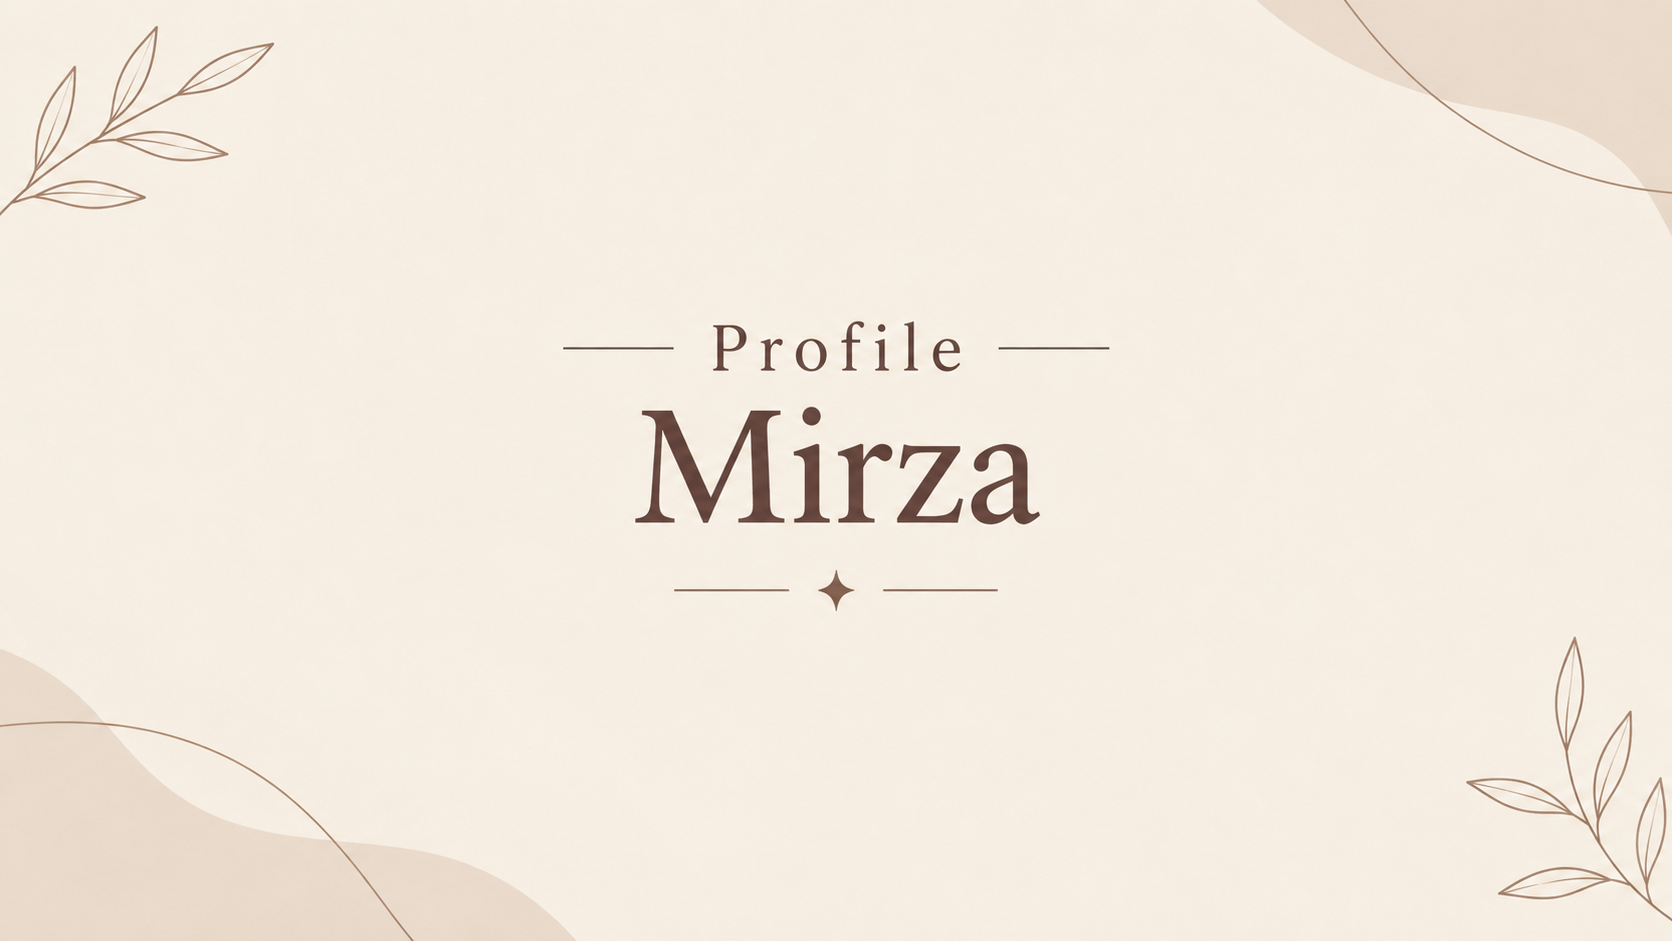
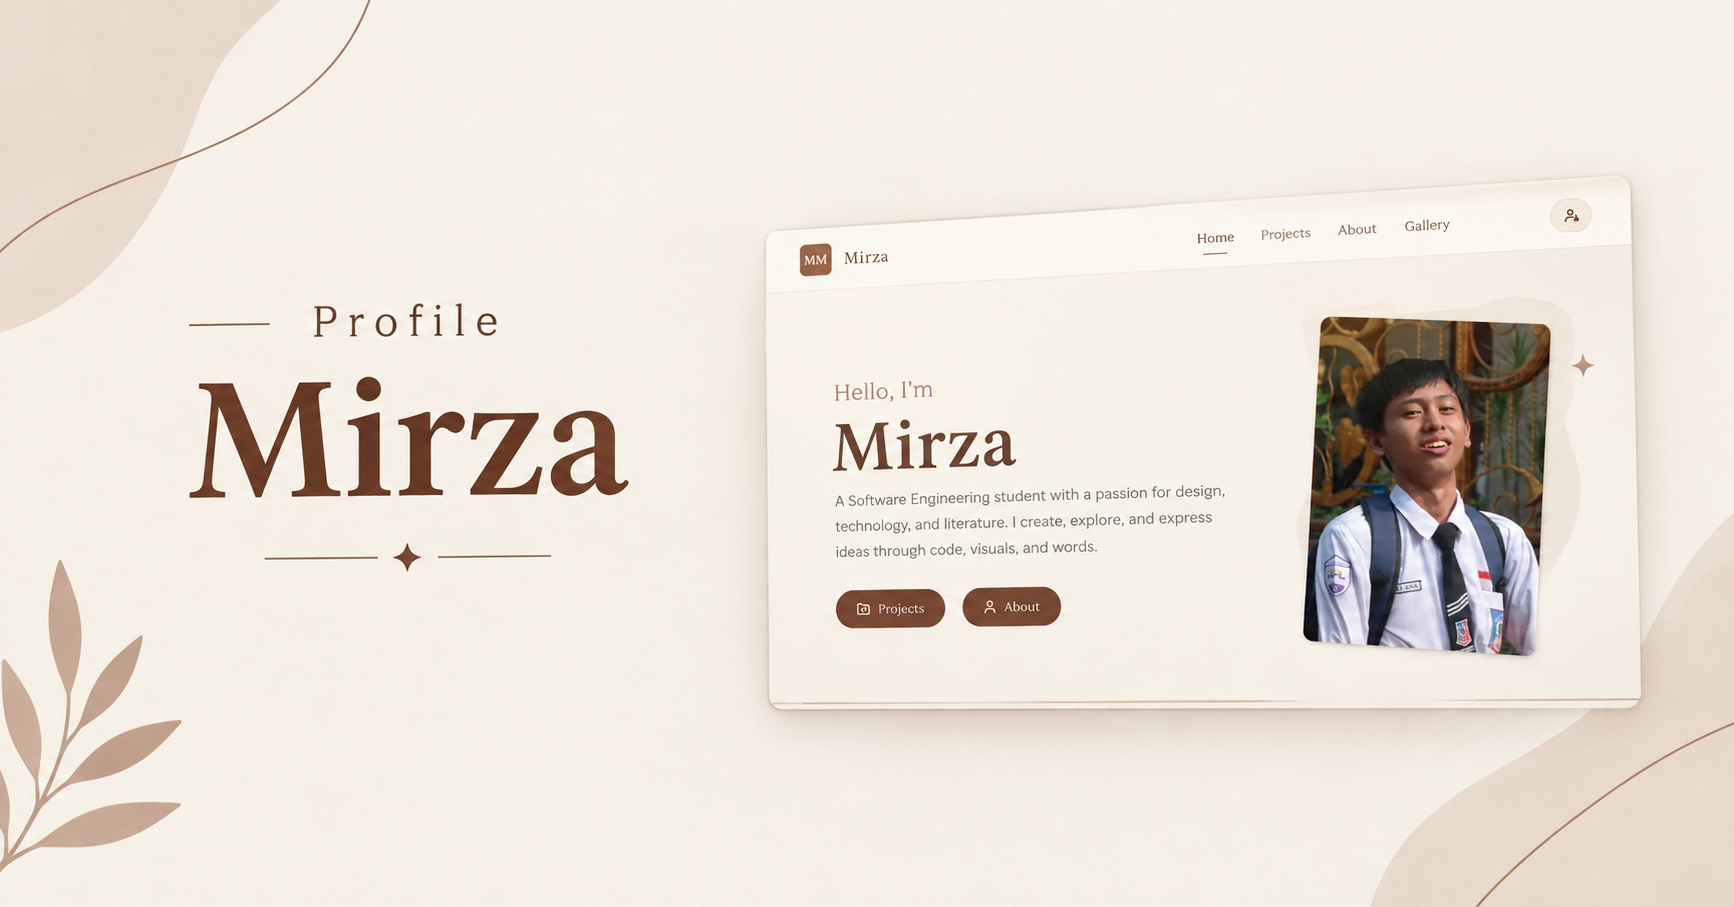
update opengraph v4

diff --git a/src/app/(site)/projects/[slug]/page.tsx b/src/app/(site)/projects/[slug]/page.tsx
@@ -27,7 +27,14 @@ export async function generateMetadata({ params }: DetailProps): Promise<Metadat
     openGraph: {
       title: proyek.title,
       description: proyek.description,
-      images: [proyek.image]
+      images: [
+        {
+          url: proyek.image,
+          width: 1200,
+          height: 630,
+          alt: proyek.title,
+        },
+      ],
     },
   };
 }
